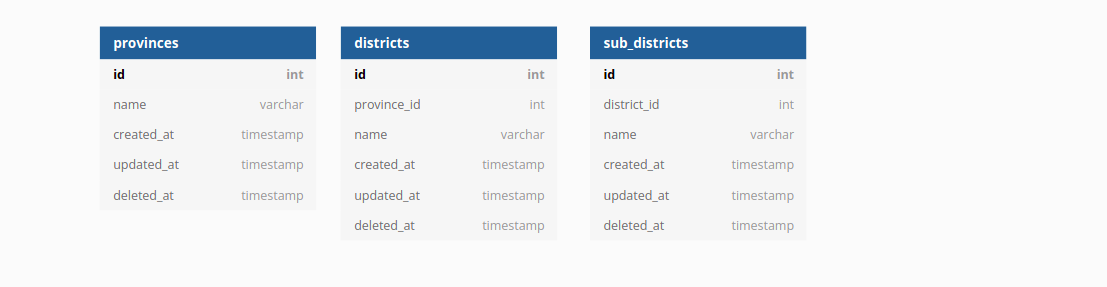
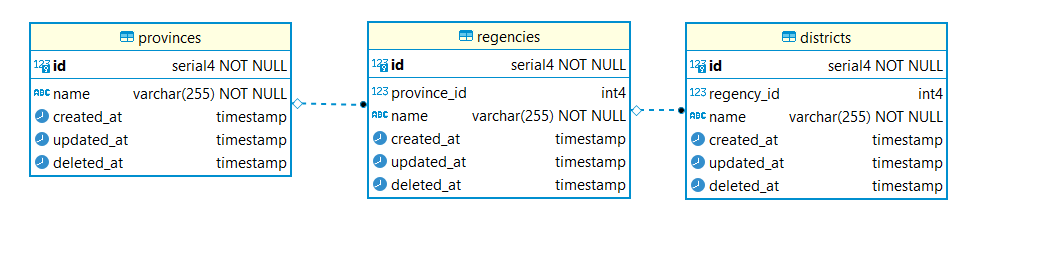
update

diff --git a/week6/readme.md b/week6/readme.md
@@ -1,7 +1,8 @@
 # 5th Week Backend Assessment
 Assignment checklist
-- [x] Create a function to find, update and delete data. See: [index,js](index.js)
-- [x] Create an API to get all data provided
+- [x] create database with a structure like the one below and its relationships
+  ![title](dbdesign.png)
+- [x] create crud API at least for 1 table. for example API to get, post, patch/put, and delete provinces
 
 **Deadline**: Sunday, 7 November 2021, 12:00 WIB (12 siang)
 
